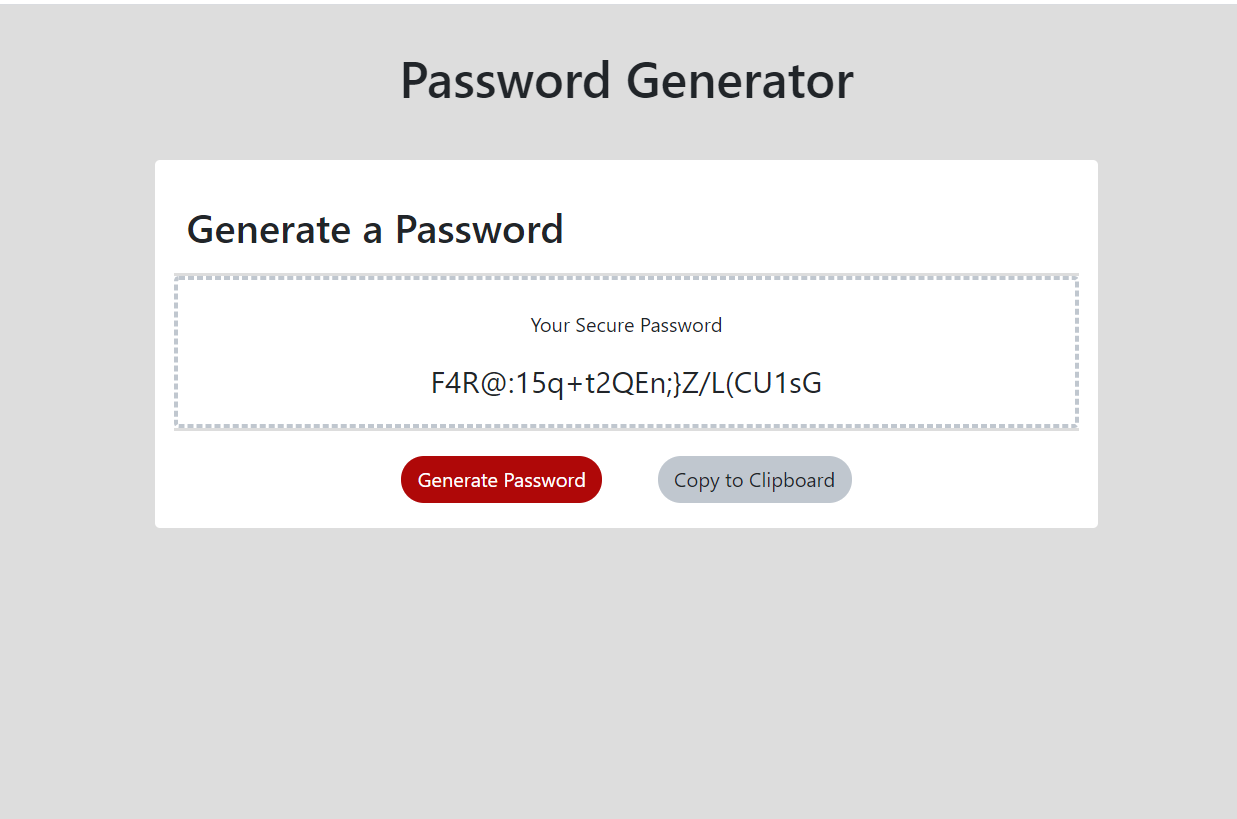
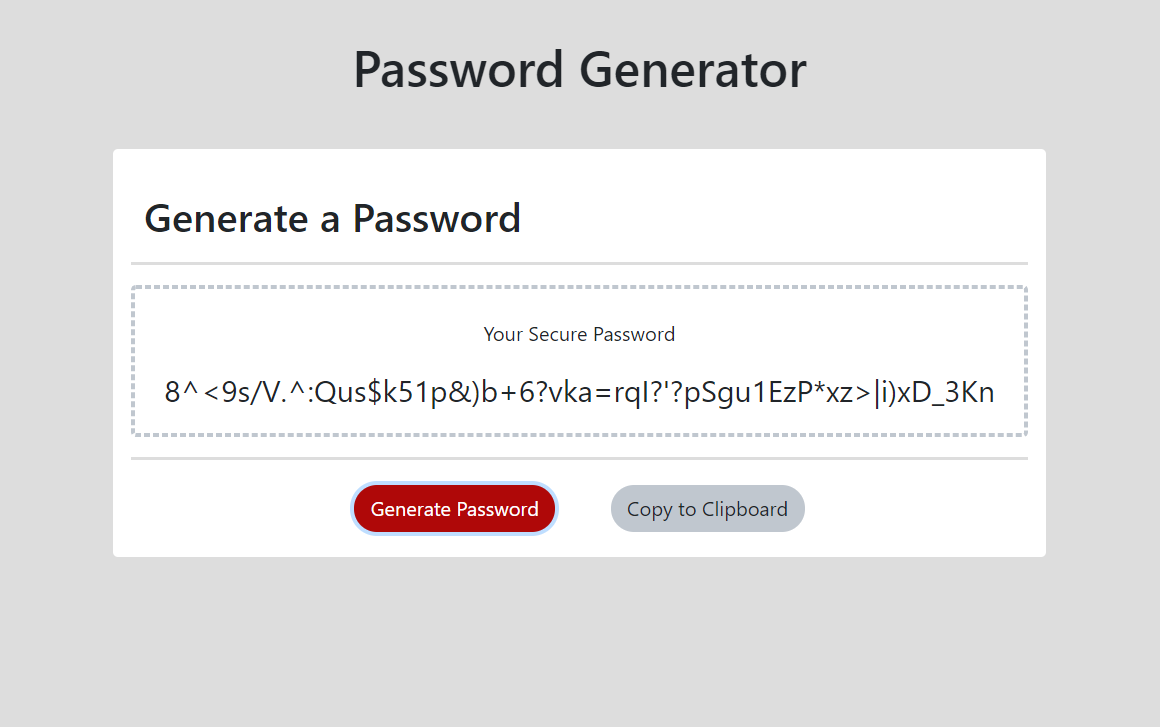
Added functionality to check if the number(numeric characters) was entered for the password length.

diff --git a/assets/js/passwordGenerator.js b/assets/js/passwordGenerator.js
@@ -26,7 +26,13 @@ function generatePW() {
     // User prompts //
     // keep prompting until the user enter the appropriate password length.
     do {
-        pwLength =  prompt("Enter the length of password (between 8 and 128).");
+        // parse the string entered and assign the variable pwLength with the returned integer.
+        pwLength =  parseInt(prompt("Enter the length of password (between 8 and 128)."));
+        // check if the user entered numeric character(number). NaN should be returned when non numeric characters are given.
+        if (isNaN(pwLength)) {
+            alert("Please enter a number!");
+            pwLength = 0;
+        }
     } while (pwLength < 8 || pwLength > 128);
 
     // keep prompting until the user chooses at least one character type.

diff --git a/index.html b/index.html
@@ -19,7 +19,7 @@
                 <h2 class="text-left mt-4">Generate a Password</h2>
             </header>
 
-            <div id=pwArea class="rounded">
+            <div id=pwArea class="rounded my-3">
                 <p class="mt-4">Your Secure Password</p>
                 <p id="generatedPW" class="overflow-auto"></p>
             </div>
